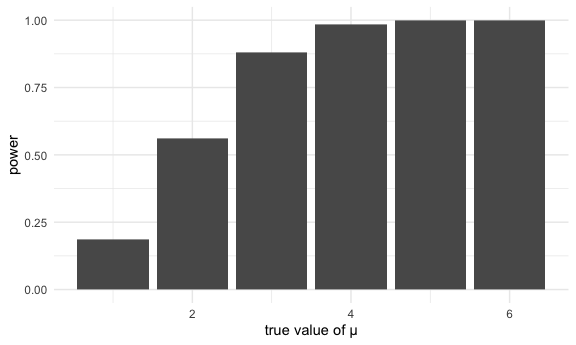
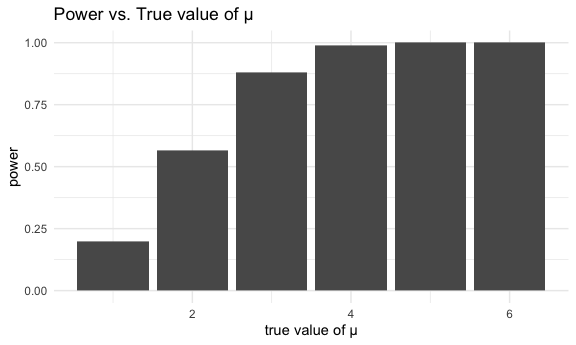
add titles

diff --git a/p8105_hw5_lh3000.md b/p8105_hw5_lh3000.md
@@ -9,9 +9,9 @@ This is my solution to HW5.
 
 The raw dataset contains information about criminal homicides in 50
 large U.S. cities from 2012 to 2017, collected by The Washington Post.
-The variable included are the location of the killing, whether an arrest
-was made and, in most cases, basic demographic information about each
-victim.
+The variable included are the location of the killing, the report date,
+whether an arrest was made and the basic demographic information about
+each victim.
 
 Read in the data.
 
@@ -97,6 +97,7 @@ results_df %>%
   ggplot(aes(x = city_state, y = estimate)) +
   geom_point() +
   geom_errorbar(aes(ymin = conf.low, ymax = conf.high)) +
+  labs(title = "Estimates of the proportion of unsolved homicides and CIs for city") +
   theme(axis.text.x = element_text(angle = 90, vjust = 0.5, hjust = 1))
 ```
 
@@ -363,7 +364,8 @@ Make a spaghetti plot showing observations on each subject over time.
 ``` r
 study_df %>% 
   ggplot(aes(x = week, y = obs, group = subject, color = arm)) +
-  geom_line()
+  geom_line() +
+  labs(title = "Observations on each subject over time")
 ```
 
 <img src="p8105_hw5_lh3000_files/figure-gfm/unnamed-chunk-8-1.png" width="90%" />
@@ -424,7 +426,8 @@ rejected_df %>%
   summarize(prop_rejected = sum(rejected == "reject")/n()) %>% 
   ggplot(aes(x = mu_value, y = prop_rejected)) +
   geom_bar(stat = "identity") +
-  labs(x = "true value of µ", y = "power")
+  labs(x = "true value of µ", y = "power",
+       title = "Power vs. True value of µ")
 ```
 
     ## `summarise()` ungrouping output (override with `.groups` argument)
@@ -436,55 +439,16 @@ Since we assume µ = 0 and effect size is calculated by the true value of
 effect size. As effect size increases, power also increases - from fast
 to slow, until power reaches 1.
 
-1)  Make a plot showing the average estimate of µ-hat vs. the true value
-    of µ.
-
-2)  Make a plot showing the average estimate of µ-hat only in samples
-    for which the null was rejected vs. the true value of µ.
-
-Two separate plots:
-
-``` r
-all_plot = 
-  rejected_df %>%
-  group_by(mu_value) %>% 
-  summarize(mean_mu = mean(estimate)) %>% 
-  ggplot(aes(x = mu_value, y = mean_mu)) +
-  geom_point() +
-  labs(x = "true value of µ", y = "average estimate of µ-hat", 
-       title = "All samples")
-```
-
-    ## `summarise()` ungrouping output (override with `.groups` argument)
-
-``` r
-rejected_plot = 
-  rejected_df %>%
-  filter(rejected == "reject") %>% 
-  group_by(mu_value) %>% 
-  summarize(mean_mu = mean(estimate)) %>% 
-  ggplot(aes(x = mu_value, y = mean_mu)) +
-  geom_point() +
-  labs(x = "true value of µ", y = "average estimate of µ-hat",
-       title = "Samples where the null was rejected")
-```
-
-    ## `summarise()` ungrouping output (override with `.groups` argument)
-
-``` r
-all_plot + rejected_plot
-```
-
-<img src="p8105_hw5_lh3000_files/figure-gfm/unnamed-chunk-12-1.png" width="90%" />
-
-One plot (the second plot overlays on the first):
+Make a plot showing the average estimate of µ-hat vs. the true value of
+µ, overlay with a plot showing the average estimate of µ-hat only in
+samples for which the null was rejected vs. the true value of µ.
 
 ``` r
 all_plot_df = 
   rejected_df %>%
   group_by(mu_value) %>% 
   summarize(mean_mu = mean(estimate)) %>% 
-  mutate(samples = "all")
+  mutate(samples = "all") 
 ```
 
     ## `summarise()` ungrouping output (override with `.groups` argument)
@@ -504,10 +468,11 @@ rejected_plot_df =
 ggplot(data = all_plot_df, aes(x = mu_value, y = mean_mu, color = samples)) + 
   geom_point() + 
   geom_point(data = rejected_plot_df) +
-  labs(x = "true value of µ", y = "average estimate of µ-hat")
+  labs(x = "true value of µ", y = "average estimate of µ-hat",
+       title = "Average estimate of µ-hat vs. True value of µ")
 ```
 
-<img src="p8105_hw5_lh3000_files/figure-gfm/unnamed-chunk-13-1.png" width="90%" />
+<img src="p8105_hw5_lh3000_files/figure-gfm/unnamed-chunk-12-1.png" width="90%" />
 
 When µ is smaller than 3, the sample average of µ-hat across tests for
 which the null is rejected approximately equal to the true value of µ.
@@ -516,10 +481,10 @@ null is rejected approaches (even coincides with) the true value of µ.
 
   - The reasoning: In the previous bar graph, we can see the power is
     relatively low when µ is smaller than 3, which means the proportion
-    of times the null was rejected is low. Therefore, the number of
-    samples with µ smaller than 3 and the null is rejected is relatively
-    small. These sample means indeed have more variation and their
-    average is more likely to deviate from the true mean. However, as µ
-    gets bigger, there are more samples with rejected null, so the
-    sample average of µ-hat becomes more stable and yields a more
-    unbiased estimation of the true mean.
+    of times the null was rejected is low. Therefore, for µ smaller than
+    3, the number of samples with rejected null is relatively small.
+    These sample means indeed have more variation and their average is
+    more likely to deviate from the true mean. However, as µ gets
+    bigger, there are more samples with rejected null, so the sample
+    average of µ-hat becomes more stable and yields a more unbiased
+    estimation of the true mean.
